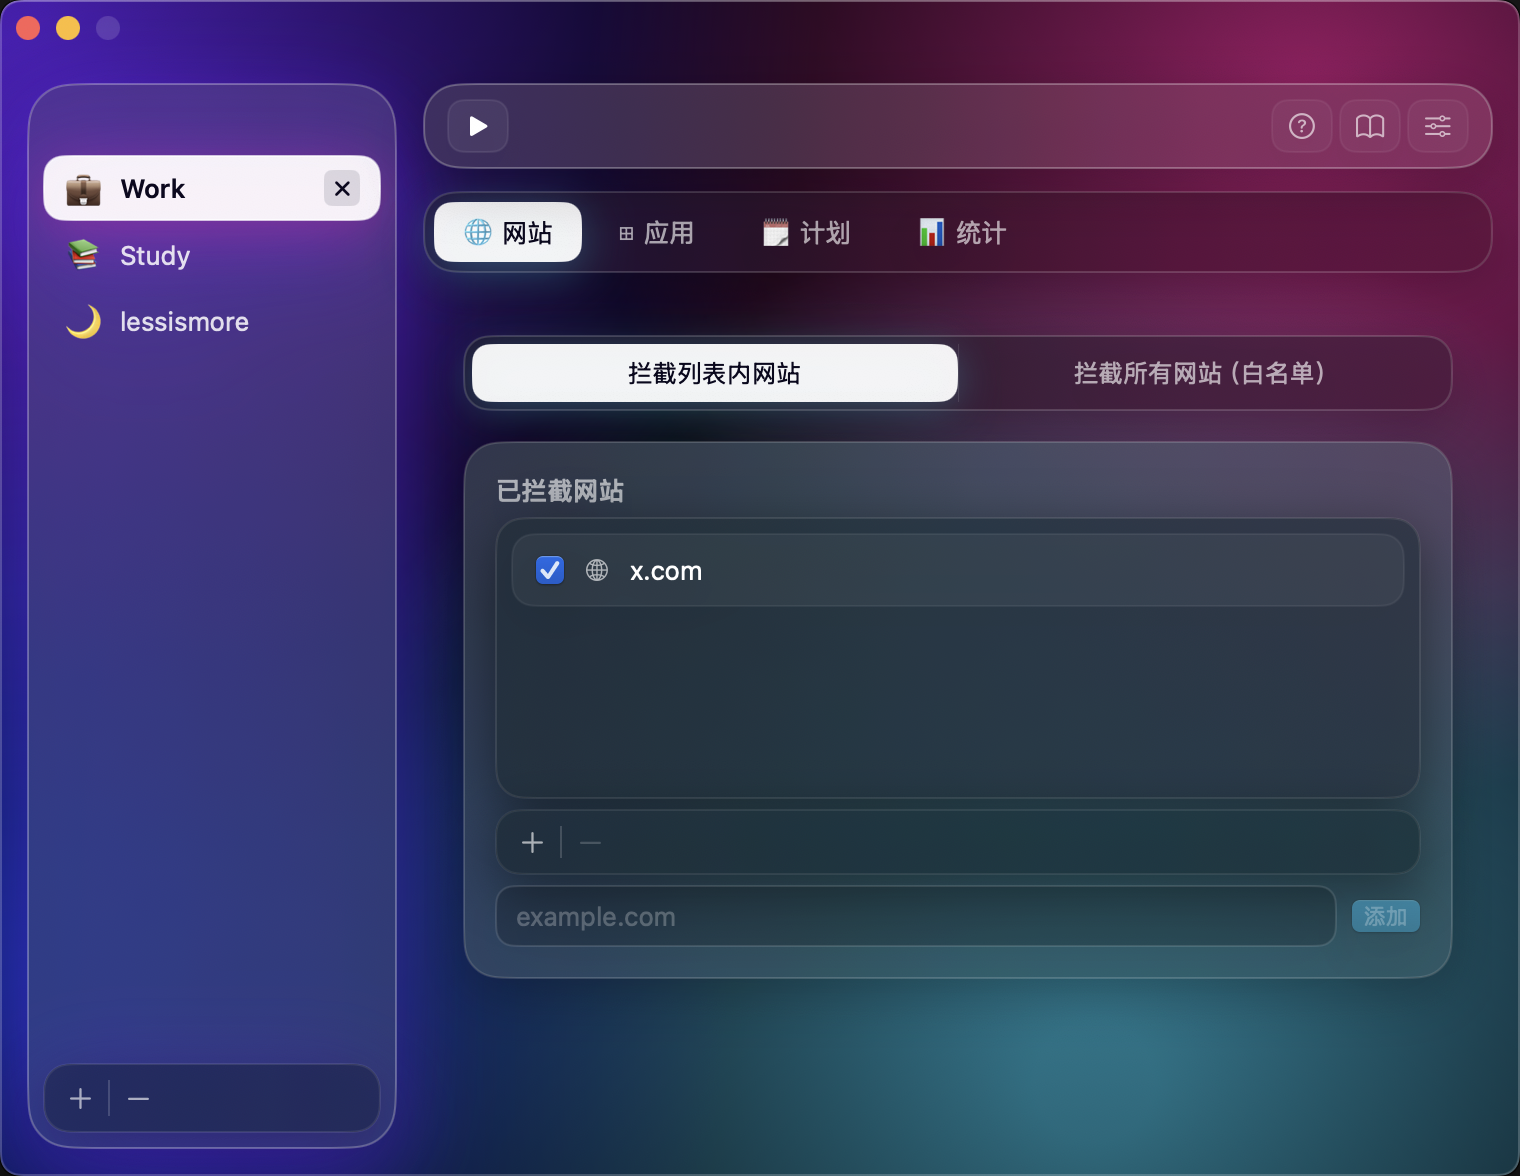
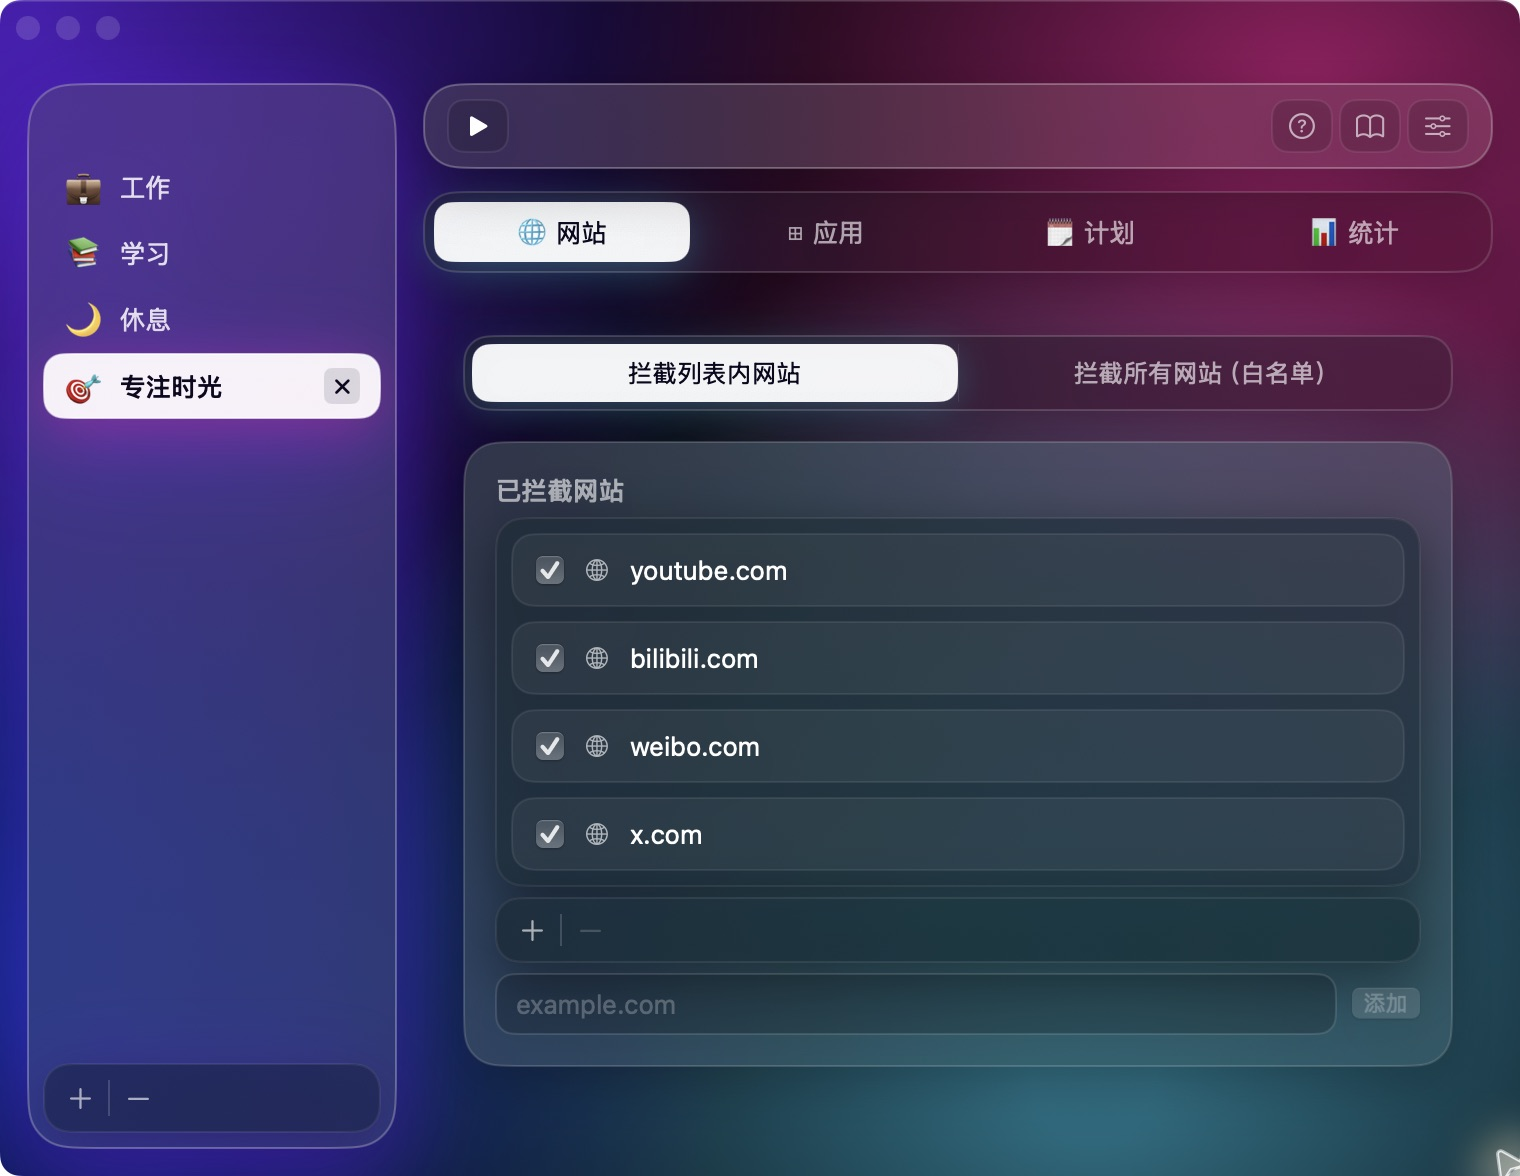
Update site for Inchbox App Store release

diff --git a/app/privacy/page.tsx b/app/privacy/page.tsx
@@ -2,8 +2,8 @@ import type { Metadata } from "next";
 import { LegalPage } from "@/components/LegalPage";
 
 export const metadata: Metadata = {
-  title: "Privacy Policy - FocusTomato",
-  description: "Privacy Policy for FocusTomato."
+  title: "Privacy Policy - Inchbox",
+  description: "Privacy Policy for Inchbox."
 };
 
 export default function PrivacyPage() {
@@ -12,12 +12,12 @@ export default function PrivacyPage() {
       eyebrow="Legal"
       title="Privacy Policy"
       effectiveDate="October 28, 2026"
-      intro="FocusTomato is a local-first macOS app. It does not collect, upload, or share any personal data — all settings and history stay on your Mac. 简而言之：FocusTomato 不收集、不上传任何数据，所有设置只保存在你的 Mac 上。"
+      intro="Inchbox is a local-first macOS app. It does not collect, upload, or share any personal data — all settings and history stay on your Mac. 简而言之：Inchbox 不收集、不上传任何数据，所有设置只保存在你的 Mac 上。"
       chineseSections={[
         {
           title: "我们收集什么",
           body: [
-            "FocusTomato 不收集任何个人数据，也不会把任何数据上传到我们或第三方的服务器。应用不包含账号系统、远程分析服务、广告追踪 SDK 或云端同步服务，运行时不会主动发起网络请求。",
+            "Inchbox 不收集任何个人数据，也不会把任何数据上传到我们或第三方的服务器。应用不包含账号系统、远程分析服务、广告追踪 SDK 或云端同步服务，运行时不会主动发起网络请求。",
             "我们不会出售个人信息，也不会为了跨应用或跨网站追踪而收集数据。"
           ]
         },
@@ -25,7 +25,7 @@ export default function PrivacyPage() {
           title: "本地存储的数据",
           body: [
             "应用会在你的 Mac 本地保存设置、预设、专注记录、统计信息，以及设备锁定的状态和紧急解锁记录，以便恢复你的偏好、在重启后恢复锁定并展示使用历史。",
-            "这些数据保存在设备本地，不会由 FocusTomato 自动上传。"
+            "这些数据保存在设备本地，不会由 Inchbox 自动上传。"
           ]
         },
         {
@@ -39,7 +39,7 @@ export default function PrivacyPage() {
         {
           title: "儿童隐私",
           body: [
-            "FocusTomato 不会故意收集儿童的个人信息。由于当前版本不进行远程数据收集，我们也不会基于年龄建立用户画像。"
+            "Inchbox 不会故意收集儿童的个人信息。由于当前版本不进行远程数据收集，我们也不会基于年龄建立用户画像。"
           ]
         },
         {
@@ -59,15 +59,15 @@ export default function PrivacyPage() {
         {
           title: "What We Collect",
           body: [
-            "FocusTomato does not collect any personal data and does not upload any data to our servers or to third parties. The app has no accounts, remote analytics, advertising trackers, or cloud sync, and it does not make network requests while running.",
+            "Inchbox does not collect any personal data and does not upload any data to our servers or to third parties. The app has no accounts, remote analytics, advertising trackers, or cloud sync, and it does not make network requests while running.",
             "We do not sell personal information or collect data for cross-app or cross-website tracking."
           ]
         },
         {
           title: "Data Stored Locally",
           body: [
-            "FocusTomato stores settings, presets, focus-session history, statistics, device-lock state, and emergency-unlock records locally on your Mac so it can restore your preferences, resume a lock after a restart, and show your history.",
-            "This data stays on your device and is not automatically uploaded by FocusTomato."
+            "Inchbox stores settings, presets, focus-session history, statistics, device-lock state, and emergency-unlock records locally on your Mac so it can restore your preferences, resume a lock after a restart, and show your history.",
+            "This data stays on your device and is not automatically uploaded by Inchbox."
           ]
         },
         {
@@ -81,7 +81,7 @@ export default function PrivacyPage() {
         {
           title: "Children's Privacy",
           body: [
-            "FocusTomato does not knowingly collect personal information from children. Because the current app does not remotely collect personal data, it does not build age-based user profiles."
+            "Inchbox does not knowingly collect personal information from children. Because the current app does not remotely collect personal data, it does not build age-based user profiles."
           ]
         },
         {

diff --git a/app/terms/page.tsx b/app/terms/page.tsx
@@ -2,8 +2,8 @@ import type { Metadata } from "next";
 import { LegalPage } from "@/components/LegalPage";
 
 export const metadata: Metadata = {
-  title: "Terms of Use - FocusTomato",
-  description: "Terms of Use for FocusTomato."
+  title: "Terms of Use - Inchbox",
+  description: "Terms of Use for Inchbox."
 };
 
 export default function TermsPage() {
@@ -12,19 +12,19 @@ export default function TermsPage() {
       eyebrow="Legal"
       title="Terms of Use"
       effectiveDate="May 18, 2026"
-      intro="FocusTomato is distributed through Apple platforms. Unless a custom agreement is provided, your use of the app is governed by Apple's Standard End User License Agreement together with the supplemental terms below."
+      intro="Inchbox is distributed through Apple platforms. Unless a custom agreement is provided, your use of the app is governed by Apple's Standard End User License Agreement together with the supplemental terms below."
       chineseSections={[
         {
           title: "许可协议",
           body: [
-            "FocusTomato 通过 Apple 平台分发。除非另行提供自定义许可协议，否则你的使用受 Apple 标准最终用户许可协议约束。",
+            "Inchbox 通过 Apple 平台分发。除非另行提供自定义许可协议，否则你的使用受 Apple 标准最终用户许可协议约束。",
             "Apple 标准 EULA 可在 Apple 官方法律页面查看：https://www.apple.com/legal/internet-services/itunes/dev/stdeula/"
           ]
         },
         {
           title: "使用范围",
           body: [
-            "你可以按照应用功能和适用法律使用 FocusTomato。你不得尝试破坏、滥用或规避应用、操作系统或第三方服务的安全机制。"
+            "你可以按照应用功能和适用法律使用 Inchbox。你不得尝试破坏、滥用或规避应用、操作系统或第三方服务的安全机制。"
           ]
         },
         {
@@ -50,14 +50,14 @@ export default function TermsPage() {
         {
           title: "License Agreement",
           body: [
-            "FocusTomato is distributed through Apple platforms. Unless a custom license agreement is provided, your use of the app is governed by Apple's Standard End User License Agreement.",
+            "Inchbox is distributed through Apple platforms. Unless a custom license agreement is provided, your use of the app is governed by Apple's Standard End User License Agreement.",
             "Apple's Standard EULA is available on Apple's official legal site: https://www.apple.com/legal/internet-services/itunes/dev/stdeula/"
           ]
         },
         {
           title: "Permitted Use",
           body: [
-            "You may use FocusTomato according to its intended features and applicable law. You may not attempt to disrupt, abuse, or bypass the security of the app, the operating system, or third-party services."
+            "You may use Inchbox according to its intended features and applicable law. You may not attempt to disrupt, abuse, or bypass the security of the app, the operating system, or third-party services."
           ]
         },
         {

diff --git a/data/home.ts b/data/home.ts
@@ -76,9 +76,9 @@ const commonFooterLinks = {
 } satisfies Record<Locale, NavItem[]>;
 
 export const site = {
-  productName: "FocusTomato",
-  repoName: "focusTomato",
-  downloadUrl: "https://github.com/alexab612/FocusTomato/releases",
+  productName: "Inchbox",
+  repoName: "InchboxDoc",
+  downloadUrl: "https://apps.apple.com/app/id6828462656",
   copy: {
     en: {
       nav: [
@@ -89,7 +89,7 @@ export const site = {
         eyebrow: "Website and app blocker for Mac",
         title: "Stay focused on your work.",
         description:
-          "FocusTomato blocks distracting websites and apps on a schedule, during focus sessions, or whenever you need a clean Mac workspace.",
+          "Inchbox blocks distracting websites and apps on a schedule, during focus sessions, or whenever you need a clean Mac workspace.",
         meta: ["Works offline", "Native Mac app", "Setup in minutes"]
       },
       featuresIntro: {
@@ -192,8 +192,8 @@ export const site = {
       cta: {
         title: "Start with one focused session.",
         description:
-          "Install FocusTomato, add the sites and apps that derail your work, and make the next block easier to finish.",
-        note: "Available from GitHub Releases"
+          "Install Inchbox, add the sites and apps that derail your work, and make the next block easier to finish.",
+        note: "Available on the Mac App Store"
       },
       footerText: "Website and app blocker for Mac.",
       footerLinks: commonFooterLinks.en,
@@ -202,7 +202,7 @@ export const site = {
         theme: "Theme",
         light: "Light",
         dark: "Dark",
-        download: "Download on GitHub"
+        download: "Download on the Mac App Store"
       }
     },
     zh: {
@@ -214,7 +214,7 @@ export const site = {
         eyebrow: "适用于 Mac 的网站与应用拦截器",
         title: "把注意力留给真正的工作。",
         description:
-          "FocusTomato 可以按计划、专注会话或临时需求拦截分心网站和应用，让 Mac 工作区保持干净。",
+          "Inchbox 可以按计划、专注会话或临时需求拦截分心网站和应用，让 Mac 工作区保持干净。",
         meta: ["离线可用", "原生 Mac 应用", "几分钟完成设置"]
       },
       featuresIntro: {
@@ -305,8 +305,8 @@ export const site = {
       cta: {
         title: "从一次专注会话开始。",
         description:
-          "安装 FocusTomato，加入最容易拖走注意力的网站和应用，让下一段工作更容易完成。",
-        note: "可从 GitHub Releases 下载"
+          "安装 Inchbox，加入最容易拖走注意力的网站和应用，让下一段工作更容易完成。",
+        note: "可从 Mac App Store 下载"
       },
       footerText: "适用于 Mac 的网站与应用拦截器。",
       footerLinks: commonFooterLinks.zh,
@@ -315,7 +315,7 @@ export const site = {
         theme: "主题",
         light: "浅色",
         dark: "深色",
-        download: "Download on GitHub"
+        download: "从 Mac App Store 下载"
       }
     }
   } satisfies Record<Locale, HomeCopy>

diff --git a/app/page.tsx b/app/page.tsx
@@ -3,6 +3,7 @@
 import { Feature, Locale, site, ThemeMode } from "@/data/home";
 import { Header } from "@/components/Header";
 import { HeroMockup } from "@/components/HeroMockup";
+import downloadBadge from "@/public/img/download-badge.svg";
 import appIcon from "@/public/img/app-icon-37.png";
 import { CheckCircle2 } from "lucide-react";
 import Image from "next/image";
@@ -22,19 +23,19 @@ export default function Home() {
   const copy = site.copy[locale];
 
   useEffect(() => {
-    const savedLocale = window.localStorage.getItem("focustomato-locale") as Locale | null;
-    const savedTheme = window.localStorage.getItem("focustomato-theme") as ThemeMode | null;
+    const savedLocale = window.localStorage.getItem("inchbox-locale") as Locale | null;
+    const savedTheme = window.localStorage.getItem("inchbox-theme") as ThemeMode | null;
     if (savedLocale === "en" || savedLocale === "zh") setLocale(savedLocale);
     if (savedTheme === "light" || savedTheme === "dark") setTheme(savedTheme);
   }, []);
 
   useEffect(() => {
-    window.localStorage.setItem("focustomato-locale", locale);
+    window.localStorage.setItem("inchbox-locale", locale);
     document.documentElement.lang = locale === "zh" ? "zh-CN" : "en";
   }, [locale]);
 
   useEffect(() => {
-    window.localStorage.setItem("focustomato-theme", theme);
+    window.localStorage.setItem("inchbox-theme", theme);
   }, [theme]);
 
   return (
@@ -55,10 +56,10 @@ export default function Home() {
           <div className="mt-8 flex flex-col items-center justify-center gap-4">
             <a
               href={site.downloadUrl}
-              className="rounded-xl bg-[var(--ink)] px-6 py-3 text-base font-extrabold text-[var(--surface)] shadow-button transition hover:-translate-y-0.5"
+              className="overflow-hidden rounded-xl shadow-button transition hover:-translate-y-0.5"
               aria-label={copy.controls.download}
             >
-              {copy.controls.download}
+              <Image src={downloadBadge} alt={copy.controls.download} className="h-12 w-auto" priority />
             </a>
             <div className="flex flex-wrap justify-center gap-x-5 gap-y-2 text-sm font-bold text-[var(--muted)]">
               {copy.hero.meta.map((item) => (
@@ -113,10 +114,10 @@ export default function Home() {
           <div className="mt-8 flex flex-col items-center gap-3">
             <a
               href={site.downloadUrl}
-              className="rounded-xl bg-[var(--ink)] px-6 py-3 text-base font-extrabold text-[var(--surface)] shadow-button transition hover:-translate-y-0.5"
+              className="overflow-hidden rounded-xl shadow-button transition hover:-translate-y-0.5"
               aria-label={copy.controls.download}
             >
-              {copy.controls.download}
+              <Image src={downloadBadge} alt={copy.controls.download} className="h-12 w-auto" />
             </a>
             <p className="text-sm font-bold text-[var(--muted)]">{copy.cta.note}</p>
           </div>

diff --git a/components/Header.tsx b/components/Header.tsx
@@ -1,4 +1,5 @@
 import { HomeCopy, Locale, site, ThemeMode } from "@/data/home";
+import downloadBadge from "@/public/img/download-badge.svg";
 import appIcon from "@/public/img/app-icon-37.png";
 import Image from "next/image";
 
@@ -13,7 +14,7 @@ type HeaderProps = {
 export function Header({ copy, locale, theme, onLocaleChange, onThemeChange }: HeaderProps) {
   return (
     <header className="section-shell flex flex-wrap items-center justify-between gap-4 py-5 sm:py-7">
-      <a href="#" className="flex items-center gap-3" aria-label="FocusTomato home">
+      <a href="#" className="flex items-center gap-3" aria-label="Inchbox home">
         <Image src={appIcon} alt="" className="h-9 w-9 rounded-lg shadow-sm" priority />
         <span className="text-lg font-extrabold tracking-normal">{site.productName}</span>
       </a>
@@ -57,10 +58,10 @@ export function Header({ copy, locale, theme, onLocaleChange, onThemeChange }: H
         </div>
         <a
           href={site.downloadUrl}
-          className="hidden rounded-lg bg-[var(--ink)] px-4 py-2 text-sm font-extrabold text-[var(--surface)] shadow-sm transition hover:-translate-y-0.5 sm:block"
+          className="hidden overflow-hidden rounded-lg shadow-sm transition hover:-translate-y-0.5 sm:block"
           aria-label={copy.controls.download}
         >
-          {copy.controls.download}
+          <Image src={downloadBadge} alt={copy.controls.download} className="h-10 w-auto" priority />
         </a>
       </div>
     </header>

diff --git a/components/HeroMockup.tsx b/components/HeroMockup.tsx
@@ -8,7 +8,7 @@ export function HeroMockup({ copy }: { copy: HomeCopy }) {
       <div className="rounded-[26px] border border-[var(--border)] bg-[var(--surface)] p-2 shadow-soft sm:p-3">
         <Image
           src={screenshot}
-          alt="FocusTomato blocking settings with website, app, and schedule tabs"
+          alt="Inchbox blocking settings with website, app, schedule, and statistics tabs"
           className="h-auto w-full rounded-[20px]"
           priority
           sizes="(max-width: 900px) calc(100vw - 32px), 860px"

diff --git a/app/layout.tsx b/app/layout.tsx
@@ -2,9 +2,9 @@ import type { Metadata } from "next";
 import "./globals.css";
 
 export const metadata: Metadata = {
-  title: "FocusTomato - Website Blocker for Deep Work",
+  title: "Inchbox - Website and App Blocker for Mac",
   description:
-    "A polished static homepage for FocusTomato, a distraction blocker and focus timer for intentional work."
+    "Inchbox is a native Mac app for blocking distracting websites and apps, running focus sessions, and protecting your attention."
 };
 
 export default function RootLayout({

diff --git a/components/LegalPage.tsx b/components/LegalPage.tsx
@@ -50,7 +50,7 @@ export function LegalPage({
     <main className="min-h-screen bg-[var(--page-bg)] text-[var(--ink)]">
       <section className="section-shell py-10 sm:py-14">
         <a href="../" className="text-sm font-bold text-tomato transition hover:text-[var(--ink)]">
-          Back to FocusTomato
+          Back to Inchbox
         </a>
 
         <div className="mt-8 max-w-3xl">

diff --git a/IMPLEMENTATION_BRIEF.md b/IMPLEMENTATION_BRIEF.md
@@ -1,4 +1,4 @@
-# focusTomato 实现简述
+# Inchbox 网站实现简述
 
 目标：高保真复刻 https://onefocusapp.com/ 首页，使用 Next.js + Tailwind CSS，并兼容 GitHub Pages 静态发布。
 

diff --git a/README.md b/README.md
@@ -1,4 +1,4 @@
-# focusTomato
+# Inchbox website
 
 A high-fidelity, static homepage clone inspired by 1Focus, built with Next.js and Tailwind CSS for GitHub Pages.
 
